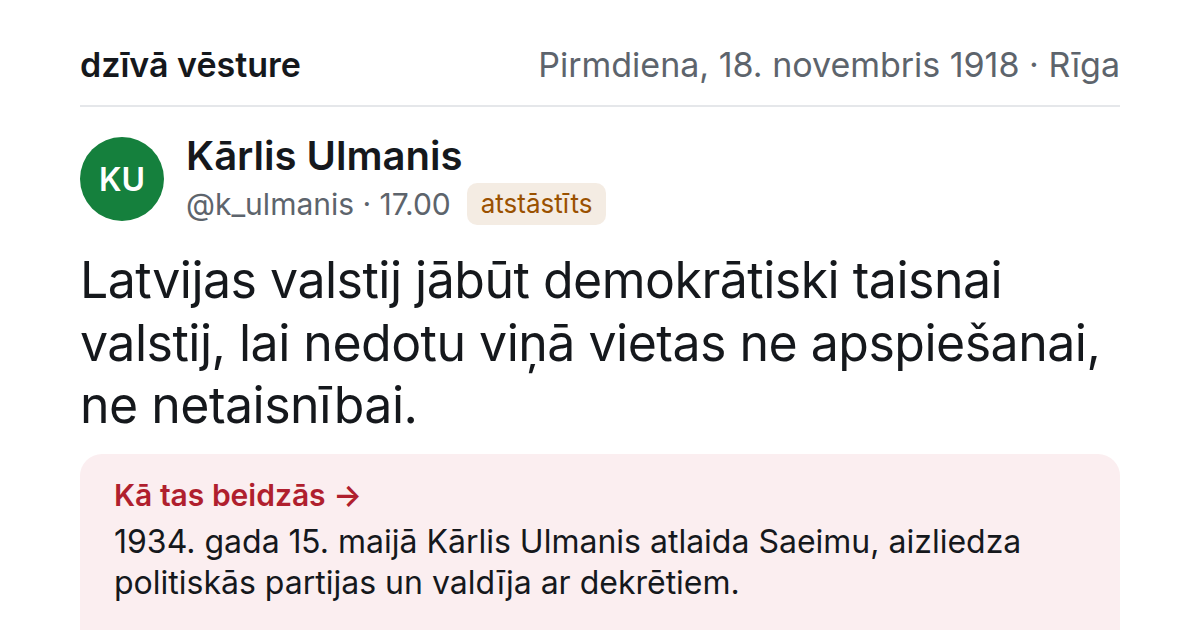
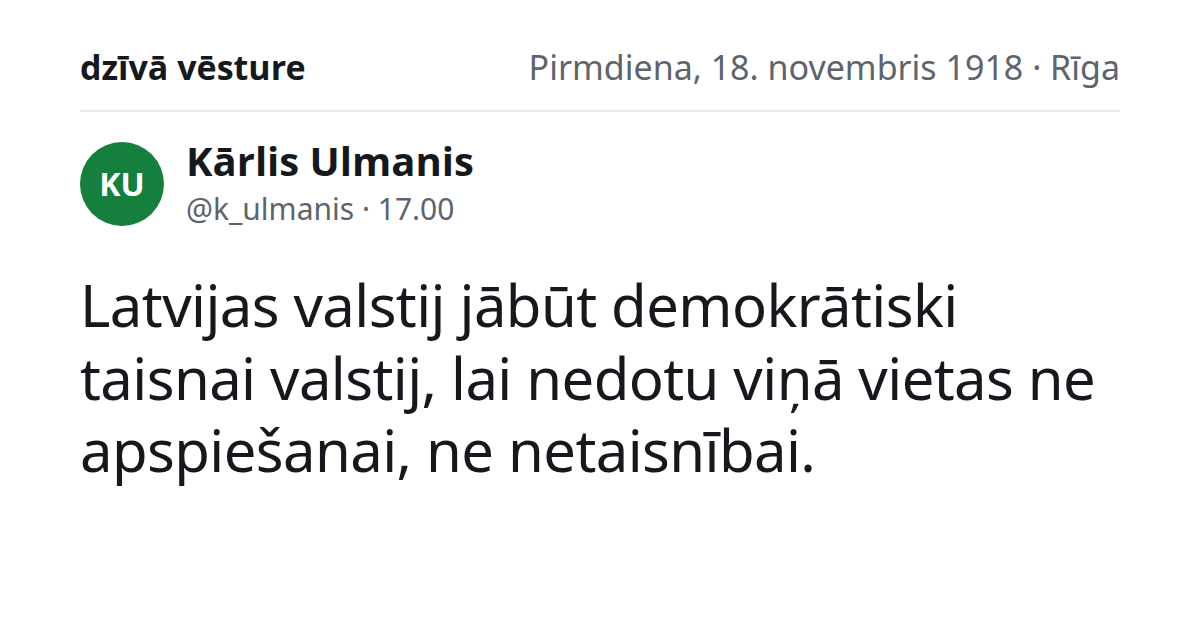
face: eight removals — the page is the sticky bar, the date, two tabs and the posts
By his choice, off the face and out of the HTML (data untouched): „Kā tas
beidzās“ (control + panel); the standfirst; „Rīga · vācu okupācija“;
„Pagaidām šeit ir viena diena“; the profile footer; the whole feed footer
(invariant line, conventions, „Kā robi avotos“, credit); the „avots“ fold
(raw OCR, type word, warn, framing, time note) — „avots →“ is now a plain
link to the article on periodika.lv. The inline markers stay as they looked,
and each now explains itself in a title: [?] carries the post's own warn,
[≈] its register, evidence kind and glyph match, recon/ident the OCR string;
they are spans, not buttons, since there is nothing left to open.

Profiles: footer gone; descriptions switch to the researched identity line
the moment rereading/identities.json exists (descriptionLines in feed.ts —
null identity → no description at all); until then what/bio stand.

Every build-time guard is unchanged: refusalReason (no archive URL → never
rendered; person + citāts → refused), the thread rejoin rows, [?]-has-a-warn,
recon/ident partition rows, the corpus checker; the invariant counter is no
longer printed but is still computed by the same code the tests exercise.
Tests updated to the new truth: gap/ident markup rows, the three type-colour
contrast pairs (tokens removed), P6 (no footer), plus a row asserting none of
the eight removals renders anywhere and that every segment has its link.

Claude-Session: https://claude.ai/code/session_015qFLD38gicN4wKX6As4ndC

diff --git a/public/feed.css b/public/feed.css
@@ -10,16 +10,12 @@
   /* Carmine from the flag, on white — the one period note left, and only on
      the interactive and the reveal. ≥ 4.5:1 on --bg (tests/run.ts checks). */
   --accent:#b01f2e; --accent-tint:#fbeef0;
-  /* The three kinds of words: the paper's own (green), a reporter's rendering
-     of a person (amber), a printed document (grey). Each ≥ 4.5:1 on --bg. */
-  --quote:#14774a; --rep:#9a5100; --doc:#5d646c;
 }
 /* Phones read this at night. Same tokens, same contrast floor. */
 @media (prefers-color-scheme: dark) {
   :root {
     --bg:#111317; --ink:#e9ebee; --soft:#a1a8b1; --line:#2a2e35; --panel:#1b1e24;
     --accent:#f0808a; --accent-tint:#2d1b1e;
-    --quote:#5bcf8c; --rep:#f0a94a; --doc:#a1a8b1;
   }
 }
 * { box-sizing:border-box; }
@@ -47,14 +43,8 @@ header { position:sticky; top:0; z-index:5; background:var(--bg);
 
 /* The day is the headline of the whole page — the one fact framing every post.
    (padding-top/bottom only: a shorthand here would wipe .wrap's side gutter.) */
-.hero { padding-top:22px; padding-bottom:6px; }
+.hero { padding-top:22px; padding-bottom:10px; }
 .hero h1 { margin:0; font-size:30px; line-height:1.15; font-weight:600; letter-spacing:-.02em; }
-.hero .when { margin:6px 0 0; font-size:15px; color:var(--soft); }
-.hero .one { margin:2px 0 0; font-size:14px; color:var(--soft); }
-
-.standfirst { margin:14px 0 0; padding:0 0 18px; border-bottom:1px solid var(--line);
-              color:var(--soft); font-size:15px; }
-.standfirst b { color:var(--ink); font-weight:600; }
 
 .tabs { display:flex; border-bottom:1px solid var(--line); }
 .tabs button { flex:1; font-size:15px; padding:13px 0; text-align:center; color:var(--soft);
@@ -92,16 +82,6 @@ header { position:sticky; top:0; z-index:5; background:var(--bg);
 /* A person's words as a paper rendered them — said, not labelled. */
 .reporter { margin:0 0 2px; font-size:13px; color:var(--soft); }
 
-/* Which kind of words these are. Lives in the source fold only: one colour
-   per kind, so "a reporter's rendering" is never mistaken for "the man's own
-   words" (see the guards in feed.ts) — but never on the face of a post. */
-.badge { font-size:12px; line-height:1; padding:4px 7px; border-radius:6px; font-weight:500;
-         background:color-mix(in srgb, currentColor 11%, transparent); }
-.t-citats { color:var(--quote); }
-.t-atstastits { color:var(--rep); }
-.t-dokuments { color:var(--doc); }
-.t-nezinamais { color:var(--soft); }
-
 /* The words run the full width: on a 400 px phone a 48 px indent under the
    avatar cost an eighth of every line, and 1918 sentences are long. */
 .body { margin-top:6px; }
@@ -113,15 +93,15 @@ header { position:sticky; top:0; z-index:5; background:var(--bg);
    no line), a reconstructed word (thin dotted line), a gap [?] (the brackets
    in the muted ink — a price list with five gaps must still read as a voice,
    not a redaction), an identified title or name (thin wavy line, with its own
-   [≈] button) — the wave is what tells "we looked this up" apart from "we read
-   this off the scan". */
+   [≈] mark) — the wave is what tells "we looked this up" apart from "we read
+   this off the scan". Each explains itself in a title; there is no panel. */
 .mention { color:var(--accent); font-weight:500; text-decoration:none; }
 /* „(@handle)“ wraps as one piece, never leaving a lone „(“ at a line end. The
    longest handle is 22 characters ≈ 190 px at 17 px — well inside a 368 px line. */
 .m { white-space:nowrap; }
 .recon { text-decoration:underline dotted; text-decoration-color:var(--soft); text-underline-offset:3px;
          text-decoration-thickness:1px; cursor:help; }
-.gap { color:var(--soft); font-weight:500; }
+.gap { color:var(--soft); font-weight:500; cursor:help; }
 .ident { text-decoration:underline wavy; text-decoration-color:var(--soft); text-underline-offset:3px;
          text-decoration-thickness:1px; cursor:help; }
 .ident-note b { color:var(--ink); font-weight:600; }
@@ -133,36 +113,16 @@ header { position:sticky; top:0; z-index:5; background:var(--bg);
 .seghead b { font-weight:500; }
 
 /* ---- the action row -------------------------------------------------------
-   One thin row. „Kā tas beidzās“ is the reason the site exists, so it is the
-   one control in the accent; the rest are quiet words. 34 px tall for the thumb. */
+   One thin row of quiet words, 34 px tall for the thumb. */
 .bar { display:flex; gap:0 12px; flex-wrap:wrap; align-items:center; margin-top:2px; }
 .bar button { font-size:14px; color:var(--soft); min-height:34px; display:inline-flex; align-items:center; }
 .bar button:hover, .bar button[aria-expanded="true"] { color:var(--ink); }
-.bar .later-btn, .bar .later-btn[aria-expanded="true"] { color:var(--accent); font-weight:600; }
-.bar .src-btn { margin-left:auto; }
+.bar .src-link { margin-left:auto; font-size:14px; color:var(--soft); text-decoration:none; min-height:34px; display:inline-flex; align-items:center; }
+.bar .src-link:hover { color:var(--accent); }
 
-/* ---- folds: shown only when asked for ------------------------------------- */
+/* ---- the one fold left: replies under the article ------------------------ */
 .fold { margin:4px 0 8px; font-size:14px; }
-.src { padding:12px; border-radius:10px; background:var(--panel); color:var(--soft); }
-.src .via { margin:0 0 6px; }
-.src .via .badge { margin-right:2px; }
-.src .via a { color:var(--accent); }
-.warn { margin:0 0 8px; color:var(--ink); }
-.ocr { margin:8px 0 0; padding:10px; border-radius:8px; background:var(--bg); border:1px solid var(--line);
-       font-family:ui-monospace,Menlo,Consolas,monospace; font-size:12.5px; line-height:1.5;
-       /* OCR garbage can be one long run without spaces; it must wrap, not push the page wide. */
-       color:var(--soft); white-space:pre-wrap; overflow-wrap:anywhere; }
 .k { font-size:12px; font-weight:600; letter-spacing:.02em; color:var(--soft); margin-bottom:6px; }
-
-/* The reveal: what became of it. Accent-tinted, in the ink, so it reads as the
-   page speaking after the day is over. */
-.later { padding:12px 14px; border-radius:10px; background:var(--accent-tint); color:var(--ink); font-size:15px; }
-.later .k { color:var(--accent); }
-
-/* The paper's own framing of a quote belongs beside the source, not in the post. */
-.context { margin:0 0 10px; padding:10px 12px; border-radius:8px; background:var(--bg); border:1px solid var(--line);
-           color:var(--ink); }
-
 .comments { padding-left:12px; border-left:2px solid var(--line); }
 .cmt { margin-bottom:12px; font-size:15px; }
 .cmt .cvia { color:var(--soft); font-size:12px; display:block; margin-top:3px; }
@@ -196,7 +156,5 @@ header { position:sticky; top:0; z-index:5; background:var(--bg);
 .trend b { font-size:16px; font-weight:600; flex:1; }
 .trend .n { font-size:13px; color:var(--soft); }
 
-footer { padding:22px 0 40px; color:var(--soft); font-size:13px; }
-footer h2 { font-size:13px; font-weight:600; margin:18px 0 4px; color:var(--ink); }
-footer .inv { padding:8px 10px; border-radius:8px; background:var(--panel); color:var(--quote); }
-footer .inv.bad { color:var(--accent); }
+/* Nothing below the last post; the feed ends with room for the thumb. */
+main { padding-bottom:48px; }

diff --git a/tests/run.ts b/tests/run.ts
@@ -2,7 +2,7 @@
 import { readFileSync } from 'node:fs';
 import {
   refusalReason, isClock, escapeHtml, bodyHtml, trends, invariantLine, initials, plural,
-  avatarHue, HUE_COUNT, reportedBy, viaText, profilePath, mentionsOf, EMPTY_COPY, type Post, type Account,
+  avatarHue, HUE_COUNT, reportedBy, viaText, profilePath, mentionsOf, EMPTY_COPY, descriptionLines, type Post, type Account,
 } from '../src/lib/feed.ts';
 
 let failed = 0;
@@ -86,12 +86,16 @@ const recon = bodyHtml('kļuvis par', { recon: { kļuvis: 'ļļņ"miS' } }, acco
 check('recon: dotted span with escaped raw tooltip',
   recon.html.includes('<span class="recon" title="Rekonstruēts no bojāta OCR: „ļļņ&quot;miS“">kļuvis</span>'));
 
-const gaps = bodyHtml('ap [?] procentu un [?] bērnu', {}, accounts, gap);
-check('every [?] becomes a tappable gap with the convention as title', (gaps.html.match(/class="gap"/g) ?? []).length === 2 && gaps.html.includes(`title="${gap}"`));
+// A gap mark is a span (there is no panel to open) whose title is the post's
+// own warn — the explanation the fold used to hold — or the convention when
+// the post has no warn.
+const gaps = bodyHtml('ap [?] procentu un [?] bērnu', { warn: 'OCR: „7<“' }, accounts, gap);
+check('every [?] becomes a marked span with the warn as its title', (gaps.html.match(/<span class="gap" title="OCR: „7&lt;“">\[\?\]<\/span>/g) ?? []).length === 2);
+check('[?] without a warn falls back to the convention', bodyHtml('[?]', {}, accounts, gap).html.includes(`<span class="gap" title="${gap}">[?]</span>`));
 
 const ident = bodyHtml('Raiņa „Spēlēju, dancoju“ (turpinājums)', { ident: [{ rendered: 'Spēlēju, dancoju', ocr: '.Äpehlciu "Sanža', evidence: 'glyphs', candidate_source: 's', glyph_match: 'g' }] }, accounts, gap);
-check('ident: wavy span with escaped OCR, followed by a [≈] button',
-  ident.html.includes('<span class="ident" title="Identificēts pēc ārēja reģistra, nevis nolasīts. OCR: „.Äpehlciu &quot;Sanža“">Spēlēju, dancoju</span><button type="button" class="gap" title="Identificēts — avots un burtu atbilstība zem „avots“">[≈]</button>'));
+check('ident: wavy span with escaped OCR, followed by a [≈] mark naming source, evidence kind and match',
+  ident.html.includes('<span class="ident" title="Identificēts pēc ārēja reģistra, nevis nolasīts. OCR: „.Äpehlciu &quot;Sanža“">Spēlēju, dancoju</span><span class="gap" title="Identificēts pēc s — burtu atbilstība: g">[≈]</span>'));
 check('ident whose rendered string is not in the text is reported', bodyHtml('x', { ident: [{ rendered: 'y', ocr: '', evidence: 'glyphs', candidate_source: '', glyph_match: '' }] }, accounts, gap).unmatched[0] === 'y');
 
 check('escapeHtml covers quotes', escapeHtml(`"'<>&`) === '&quot;&#39;&lt;&gt;&amp;');
@@ -143,6 +147,18 @@ check('profilePath from a profile', profilePath('@k_ulmanis', '../') === '../@k_
 const named = mentionsOf('@POTUS', [post({ seq: 9, mentions: { x: '@POTUS' } }), post({ seq: 2 }), post({ seq: 3, mentions: { y: '@POTUS', z: '@lidums' } })]);
 check('mentionsOf: only the posts that name the handle, in seq order', named.map((p) => p.seq).join() === '3,9');
 
+// --- descriptionLines: two regimes, never a padded description ----------------
+// | identities file | entry                     | expected          |
+// | absent          | (ignored)                 | [what, bio]       |
+// | present         | { identity: 'Laikraksts' }| ['Laikraksts']    |
+// | present         | { identity: null }        | []                |
+// | present         | undefined (not in file)   | []                |
+const acc: Account = { name: 'X', kind: 'org', what: 'W', bio: 'B' };
+check('descriptionLines: before the file, what and bio', JSON.stringify(descriptionLines(acc, { identity: 'ignored' }, false)) === '["W","B"]');
+check('descriptionLines: with the file, the identity alone', JSON.stringify(descriptionLines(acc, { identity: 'Laikraksts' }, true)) === '["Laikraksts"]');
+check('descriptionLines: null identity → nothing', descriptionLines(acc, { identity: null }, true).length === 0);
+check('descriptionLines: not in the file → nothing', descriptionLines(acc, undefined, true).length === 0);
+
 // --- contrast: the floor is 4.5:1 (WCAG AA), computed, not eyeballed -------
 // Relative luminance per WCAG 2.x; sRGB channel linearised at the 0.03928 knee.
 function luminance(hex: string): number {
@@ -176,10 +192,10 @@ check('css: every avatar hue carries white initials at ≥ 4.5:1', hues.every(([
 const tokens = (block: string) => Object.fromEntries([...block.matchAll(/--([\w-]+):(#[0-9a-f]{6})/g)].map((m) => [m[1], m[2]]));
 const light = tokens(css.slice(0, css.indexOf('@media (prefers-color-scheme: dark)')));
 const dark = tokens(css.slice(css.indexOf('@media (prefers-color-scheme: dark)')));
-const pairs: [string, string][] = [['ink', 'bg'], ['soft', 'bg'], ['accent', 'bg'], ['quote', 'bg'], ['rep', 'bg'], ['doc', 'bg'],
+const pairs: [string, string][] = [['ink', 'bg'], ['soft', 'bg'], ['accent', 'bg'],
   ['ink', 'panel'], ['soft', 'panel'], ['accent', 'panel'], ['ink', 'accent-tint']];
 for (const [name, t] of [['light', light], ['dark', dark]] as const) {
-  check(`css ${name}: all ${Object.keys(t).length ? '' : 'MISSING '}tokens parsed`, Object.keys(t).length >= 10);
+  check(`css ${name}: all ${Object.keys(t).length ? '' : 'MISSING '}tokens parsed`, Object.keys(t).length >= 7);
   for (const [fg, bg] of pairs)
     check(`css ${name}: ${fg} on ${bg} ≥ 4.5:1`, !!t[fg] && !!t[bg] && contrast(t[fg], t[bg]) >= 4.5, t[fg] && t[bg] ? contrast(t[fg], t[bg]).toFixed(2) : 'token missing');
 }

diff --git a/src/lib/feed.ts b/src/lib/feed.ts
@@ -139,12 +139,14 @@ export type BodyMarkup = {
 //     mean "the publisher inserted this"; the handle links to that account's
 //     page (relative to `base`); the group is one unbreakable span, so a line
 //     never ends on the opening „(“
-//   - identified items: wavy underline + a [≈] button beside them, so a reader
+//   - identified items: wavy underline + a [≈] mark beside them, so a reader
 //     can tell "what the paper printed" from "what we identified it as"
-//   - [?]: a button, so the gap reaches its explanation (the source fold) in one tap
+//   - [?]: a word the archive does not yield and we refuse to guess
+//   There is no panel any more: each mark carries its explanation in a title
+//   — the post's own `warn` for a gap, the OCR string for a recon or an ident.
 export function bodyHtml(
   text: string,
-  post: Pick<Post, 'recon' | 'mentions' | 'ident'>,
+  post: Pick<Post, 'recon' | 'mentions' | 'ident' | 'warn'>,
   accounts: Record<string, Account>,
   gapNote: string,
   base = '',
@@ -171,11 +173,11 @@ export function bodyHtml(
     const needle = escapeHtml(i.rendered);
     if (!out.includes(needle)) { unmatched.push(i.rendered); continue; }
     out = out.replace(needle,
-      `<span class="ident" title="Identificēts pēc ārēja reģistra, nevis nolasīts. OCR: „${escapeHtml(i.ocr)}“">${needle}</span><button type="button" class="gap" title="Identificēts — avots un burtu atbilstība zem „avots“">[≈]</button>`);
+      `<span class="ident" title="Identificēts pēc ārēja reģistra, nevis nolasīts. OCR: „${escapeHtml(i.ocr)}“">${needle}</span><span class="gap" title="Identificēts pēc ${escapeHtml(i.candidate_source)} — ${escapeHtml(i.evidence === 'glyphs' ? 'burtu atbilstība' : 'dokumentārs apliecinājums')}: ${escapeHtml(i.glyph_match)}">[≈]</span>`);
   }
 
   out = out.replaceAll('[?]',
-    `<button type="button" class="gap" title="${escapeHtml(gapNote)}">[?]</button>`);
+    `<span class="gap" title="${escapeHtml(post.warn ?? gapNote)}">[?]</span>`);
 
   return { html: out, unmatched };
 }
@@ -217,6 +219,17 @@ export function reportedBy(via: string): string | null {
 // In the fold the type is printed as its own word, so the `via` line drops
 // the "Atstāstīts: " prefix it carries in the data rather than say it twice.
 export const viaText = (via: string) => via.replace(/^Atstāstīts: /, '');
+
+// A profile's description, in two regimes. Before rereading/identities.json
+// exists, the data's own `what` and `bio` stand. Once it exists, the only
+// description is the researched identity line — what this newspaper,
+// organisation or person IS — and an account whose identity is null, or that
+// the file does not name, gets no description at all. Never a padded one.
+export type Identity = { identity: string | null; source?: string };
+export function descriptionLines(a: Account, ident: Identity | undefined, haveIdentities: boolean): string[] {
+  if (!haveIdentities) return [a.what, a.bio];
+  return ident?.identity ? [ident.identity] : [];
+}
 
 // Two initials for the avatar — a feed shows a face, we show letters.
 export const initials = (name: string) => name.split(/\s+/).slice(0, 2).map((w) => w[0]).join('');

diff --git a/tools/og-card.html b/tools/og-card.html
@@ -3,13 +3,13 @@
 <!--
   Source for public/og.png — the link-preview card (1200×630).
 
-  One real post, shown the way the page shows it, with its reveal: the product
-  in a single frame, not a poster about it. Rendered in Chrome so it uses the
+  One real post, shown the way the page shows it: the product in a single
+  frame, not a poster about it. Rendered in Chrome so it uses the
   very same font files and tokens as the page and cannot drift from it.
   Pattern taken from ~/dev/mai-lv/tools/og-card.sh.
 
-  The post is seq 610 in src/data/18-11-1918.json (Ulmanis, 17.00, atstāstīts)
-  and its „later“ — copied verbatim; if that record changes, change this.
+  The post is seq 610 in src/data/18-11-1918.json (Ulmanis, 17.00) — copied
+  verbatim; if that record changes, change this.
   The avatar hue is avatarHue('@k_ulmanis') = h-5 in public/feed.css.
 
   REGENERATE:  bash tools/og-card.sh
@@ -21,7 +21,7 @@
   :root { --bg:#ffffff; --ink:#15181c; --soft:#5d646c; --line:#e5e7ea; --accent:#b01f2e; --accent-tint:#fbeef0; --rep:#9a5100; }
   * { margin:0; padding:0; box-sizing:border-box; }
   body { width:1200px; height:630px; background:var(--bg); color:var(--ink);
-         font-family:Inter, system-ui, sans-serif; padding:44px 80px 0;
+         font-family:system-ui, -apple-system, "Segoe UI", Roboto, sans-serif; padding:44px 80px 0; justify-content:flex-start;
          display:flex; flex-direction:column; }
   /* 1200 px shrinks to 360 px in a phone's share sheet, a factor of 3.33 —
      so 40 px here is 12 px there, the smallest size still readable; the quote
@@ -36,7 +36,7 @@
   .line { font-size:30px; color:var(--soft); margin-top:4px; display:flex; gap:16px; align-items:center; }
   .badge { font-size:26px; line-height:1; padding:8px 14px; border-radius:10px; font-weight:500; color:var(--rep);
            background:color-mix(in srgb, currentColor 11%, transparent); }
-  .lv { font-size:50px; line-height:1.25; margin-top:24px; letter-spacing:-.01em; }
+  .lv { font-size:58px; line-height:1.25; margin-top:40px; letter-spacing:-.01em; }
   .later { margin-top:auto; margin-bottom:0; background:var(--accent-tint); border-radius:22px 22px 0 0;
            padding:22px 34px 26px; font-size:32px; line-height:1.3; }
   .later b { display:block; color:var(--accent); font-weight:600; font-size:30px; margin-bottom:6px; }
@@ -47,8 +47,7 @@
   <span class="avatar">KU</span>
   <div>
     <div class="name">Kārlis Ulmanis</div>
-    <div class="line">@k_ulmanis · 17.00 <span class="badge">atstāstīts</span></div>
+    <div class="line">@k_ulmanis · 17.00</div>
   </div>
 </div>
 <p class="lv">Latvijas valstij jābūt demokrātiski taisnai valstij, lai nedotu viņā vietas ne apspiešanai, ne netaisnībai.</p>
-<div class="later"><b>Kā tas beidzās →</b>1934. gada 15. maijā Kārlis Ulmanis atlaida Saeimu, aizliedza politiskās partijas un valdīja ar dekrētiem.</div>

diff --git a/tests/profiles.ts b/tests/profiles.ts
@@ -73,7 +73,13 @@ for (const h of postless) {
 }
 
 // --- P6: back to the feed on every profile ----------------------------------
-check('P6: every profile has the back link in the header and the footer', handles.every((h) => { const d = html(page(h)); return d.includes('<a class="back" href="../">') && d.includes('<a href="../">← Atpakaļ uz plūsmu</a>'); }));
+check('P6: every profile has the back link in the header (there is no footer)', handles.every((h) => { const d = html(page(h)); return d.includes('<a class="back" href="../">') && !d.includes('<footer'); }));
+// The eight removals: nothing of the reveal, standfirst, place line, one-day
+// note, footers, type badge, source fold or invariant line renders on any page — the
+// corpus text itself may contain the words, so these look for the markup.
+const gone = ['later-btn', 'class="fold later"', 'class="standfirst"', '<p class="when">', '<p class="one">', 'Konts rāda', 'class="badge', 'class="fold src"', '<pre class="ocr"', 'Kā to ierāmēja laikraksts', 'class="src-btn"', '<footer', 'class="inv"', 'Kā robi avotos'];
+check('face: the eight removals render nowhere (no footer on any page)', [feed, ...handles.map((h) => html(page(h)))].every((d) => gone.every((g) => !d.includes(g))));
+check('face: avots is a plain link to periodika.lv on every segment', [feed, ...handles.map((h) => html(page(h)))].every((d) => (d.match(/<a class="src-link" href="https:\/\/periodika\.lv\/[^"]*" target="_blank" rel="noopener">avots →<\/a>/g) ?? []).length === (d.match(/<div class="seg">/g) ?? []).length));
 
 // --- P7: no dead internal link anywhere in the built site --------------------
 const pages: string[] = [];

diff --git a/public/feed.js b/public/feed.js
@@ -30,7 +30,7 @@ function showTab(name) {
 }
 for (const b of $$('.tabs [data-tab]')) b.addEventListener('click', () => showTab(b.dataset.tab));
 
-// ---- folds: one open per card, so the card stays a post --------------------
+// ---- folds (replies): one open per card, so the card stays a post ----------
 function openFold(card, button) {
   const target = document.getElementById(button.getAttribute('aria-controls'));
   const wasOpen = !target.hidden;
@@ -53,15 +53,6 @@ for (const b of $$('.thread-toggle'))
     b.setAttribute('aria-expanded', String(!rest.hidden));
     b.textContent = rest.hidden ? b.textContent.replace('sakļaut pavedienu', 'rādīt pavedienu') : b.textContent.replace('rādīt pavedienu', 'sakļaut pavedienu');
     if (!rest.hidden) logEvent('thread');
-  });
-
-// A [?] gap reaches its explanation in one tap: the source fold holds the warn.
-for (const g of $$('.gap'))
-  g.addEventListener('click', () => {
-    const card = g.closest('.post');
-    const src = $('.fold.src', g.closest('.seg'));
-    if (src.hidden) openFold(card, $(`.bar [aria-controls="${src.id}"]`, card));
-    $('.warn', src).scrollIntoView({ block: 'nearest' });
   });
 
 // ---- trends filter -----------------------------------------------------------
